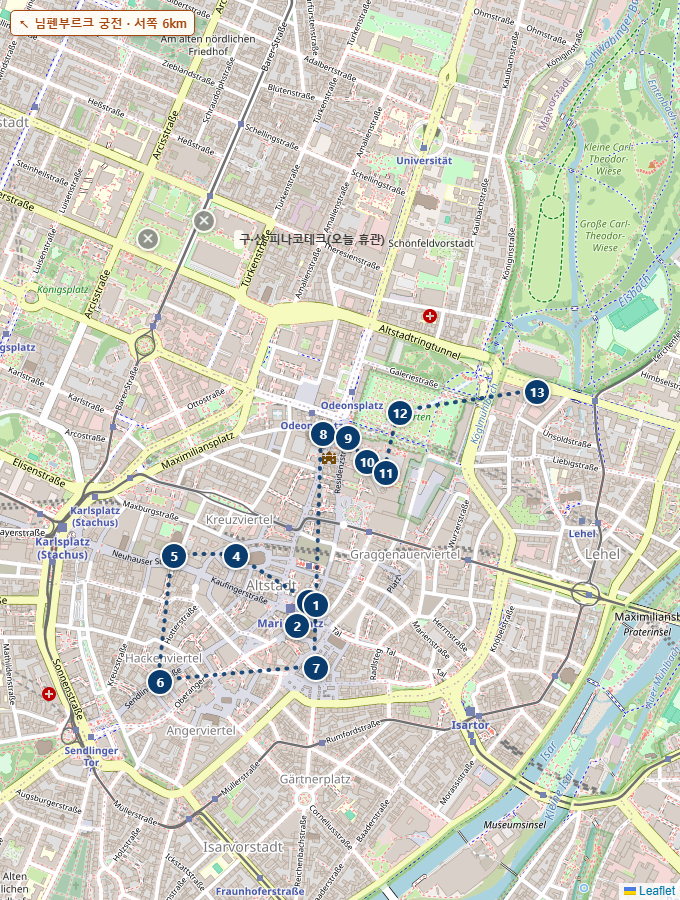
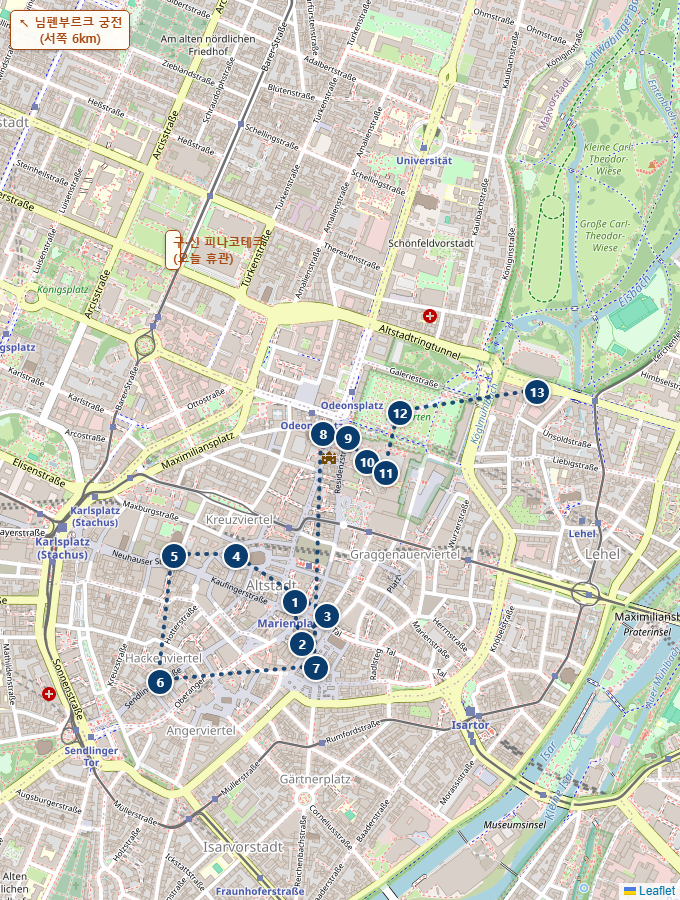
Separate off-route Munich landmarks into their own group, move Spielzeugmuseum next to Altes Rathaus, fix overlapping map pins, unify reference-marker styling on route map

diff --git a/germany-roadtrip-planner.html b/germany-roadtrip-planner.html
@@ -1759,7 +1759,7 @@ document.addEventListener('DOMContentLoaded', function(){
         <ol class="route-steps">
         <li><span class="rs-name">마리엔 광장(신시청)</span></li>
         <li><span class="rs-name">성 페터 교회</span><span class="rs-seg">(110m, 1분)</span></li>
-        <li><span class="rs-name">마리엔 광장(구시청)</span><span class="rs-seg">(180m, 2분)</span></li>
+        <li><span class="rs-name">마리엔 광장(구시청 · 장난감박물관)</span><span class="rs-seg">(180m, 2분)</span></li>
         <li><span class="rs-name">프라우엔교회</span><span class="rs-seg">(450m, 6분)</span></li>
         <li><span class="rs-name">성 미하엘 교회</span><span class="rs-seg">(300m, 4분)</span></li>
         <li><span class="rs-name">아잠 교회</span><span class="rs-seg">(550m, 7분)</span></li>
@@ -1795,6 +1795,14 @@ document.addEventListener('DOMContentLoaded', function(){
         <h3>구시청(Altes Rathaus)</h3>
         <p class="landmark-desc">마리엔광장 동쪽에 있는 고딕 양식 옛 시청사. 지금은 탑 안에 장난감박물관이 들어서 있습니다.</p>
         <div class="landmark-meta">외관 상시 관람 · <span class="landmark-price">무료</span> · <a href="https://www.google.com/maps/search/?api=1&query=Altes+Rathaus+Muenchen" target="_blank" rel="noopener">지도</a></div>
+        </div>
+      </div>
+      <div class="landmark-card">
+        <img src="https://commons.wikimedia.org/wiki/Special:FilePath/Altes%20Rathaus%20Muenchen-2.jpg?width=500" alt="구시청 탑(장난감박물관 소재지)" loading="lazy">
+        <div class="landmark-body">
+        <h3>장난감박물관(Spielzeugmuseum)</h3>
+        <p class="landmark-desc">구시청 탑 안에 1983년부터 자리한 박물관. 목재·양철 장난감, 모형 기차, 인형, 곰인형, 만화 캐릭터 피규어 등 200년 넘는 세월의 장난감을 4개 층에 걸쳐 전시합니다. 바로 앞 구시청(카드 목록 3번째)과 같은 건물이라 별도 동선 없이 들를 수 있습니다.</p>
+        <div class="landmark-meta">수–월 10:00–17:30(화요일 휴관, 바이에른 학교방학 기간엔 화요일도 개방 — 출처마다 요일이 조금씩 달라 현장 확인 권장) · <span class="landmark-price">성인 €8</span> · <a href="https://www.google.com/maps/search/?api=1&query=Spielzeugmuseum+Muenchen" target="_blank" rel="noopener">지도</a></div>
         </div>
       </div>
       <div class="landmark-card">
@@ -1885,6 +1893,7 @@ document.addEventListener('DOMContentLoaded', function(){
         <div class="landmark-parking">🅿 인근 노상 유료주차 위주 · 시간당 약 €2~4(구역별 상이) · 대중교통 권장(U3/U6 Giselastr.)</div>
         </div>
       </div>
+      <p class="city-label">🚗 도보권 밖 — 참고용(오늘 미방문 · 별도 이동 필요)</p>
       <div class="landmark-card semi-wide">
         <img src="https://commons.wikimedia.org/wiki/Special:FilePath/Alte_Pinakothek.JPG?width=500" alt="구 피나코테크" loading="lazy">
         <div class="landmark-body">
@@ -1900,14 +1909,6 @@ document.addEventListener('DOMContentLoaded', function(){
         <h3>(휴관) 신 피나코테크(Neue Pinakothek)</h3>
         <p class="landmark-desc">구 피나코테크 바로 건너편(테레지엔 거리 맞은편, 도보 1분)에 있어 위치상으로는 함께 묶어 보기 좋지만, 2019년부터 리모델링으로 휴관 중이며 2029년 하반기 재개관 예정입니다. 19세기 유럽 회화(낭만주의·인상주의 등, 모네·반고흐·고갱·세잔 등)를 소장했던 곳으로, 휴관 기간 소장품 일부는 구 피나코테크 동쪽 별관과 샤크 컬렉션(Sammlung Schack)에서 볼 수 있습니다.</p>
         <div class="landmark-meta">⚠ 2029년 하반기까지 휴관 · <a href="https://www.google.com/maps/search/?api=1&query=Neue+Pinakothek+Muenchen" target="_blank" rel="noopener">지도(쿤스트아레알 지구)</a></div>
-        </div>
-      </div>
-      <div class="landmark-card">
-        <img src="https://commons.wikimedia.org/wiki/Special:FilePath/Altes%20Rathaus%20Muenchen-2.jpg?width=500" alt="구시청 탑(장난감박물관 소재지)" loading="lazy">
-        <div class="landmark-body">
-        <h3>장난감박물관(Spielzeugmuseum)</h3>
-        <p class="landmark-desc">구시청 탑 안에 1983년부터 자리한 박물관. 목재·양철 장난감, 모형 기차, 인형, 곰인형, 만화 캐릭터 피규어 등 200년 넘는 세월의 장난감을 4개 층에 걸쳐 전시합니다. 마리엔광장의 구시청(카드 목록 3번째)과 같은 건물이라 별도 동선 없이 들를 수 있습니다.</p>
-        <div class="landmark-meta">수–월 10:00–17:30(화요일 휴관, 바이에른 학교방학 기간엔 화요일도 개방 — 출처마다 요일이 조금씩 달라 현장 확인 권장) · <span class="landmark-price">성인 €8</span> · <a href="https://www.google.com/maps/search/?api=1&query=Spielzeugmuseum+Muenchen" target="_blank" rel="noopener">지도</a></div>
         </div>
       </div>
       <div class="landmark-card">

diff --git a/index.html b/index.html
@@ -1759,7 +1759,7 @@ document.addEventListener('DOMContentLoaded', function(){
         <ol class="route-steps">
         <li><span class="rs-name">마리엔 광장(신시청)</span></li>
         <li><span class="rs-name">성 페터 교회</span><span class="rs-seg">(110m, 1분)</span></li>
-        <li><span class="rs-name">마리엔 광장(구시청)</span><span class="rs-seg">(180m, 2분)</span></li>
+        <li><span class="rs-name">마리엔 광장(구시청 · 장난감박물관)</span><span class="rs-seg">(180m, 2분)</span></li>
         <li><span class="rs-name">프라우엔교회</span><span class="rs-seg">(450m, 6분)</span></li>
         <li><span class="rs-name">성 미하엘 교회</span><span class="rs-seg">(300m, 4분)</span></li>
         <li><span class="rs-name">아잠 교회</span><span class="rs-seg">(550m, 7분)</span></li>
@@ -1795,6 +1795,14 @@ document.addEventListener('DOMContentLoaded', function(){
         <h3>구시청(Altes Rathaus)</h3>
         <p class="landmark-desc">마리엔광장 동쪽에 있는 고딕 양식 옛 시청사. 지금은 탑 안에 장난감박물관이 들어서 있습니다.</p>
         <div class="landmark-meta">외관 상시 관람 · <span class="landmark-price">무료</span> · <a href="https://www.google.com/maps/search/?api=1&query=Altes+Rathaus+Muenchen" target="_blank" rel="noopener">지도</a></div>
+        </div>
+      </div>
+      <div class="landmark-card">
+        <img src="https://commons.wikimedia.org/wiki/Special:FilePath/Altes%20Rathaus%20Muenchen-2.jpg?width=500" alt="구시청 탑(장난감박물관 소재지)" loading="lazy">
+        <div class="landmark-body">
+        <h3>장난감박물관(Spielzeugmuseum)</h3>
+        <p class="landmark-desc">구시청 탑 안에 1983년부터 자리한 박물관. 목재·양철 장난감, 모형 기차, 인형, 곰인형, 만화 캐릭터 피규어 등 200년 넘는 세월의 장난감을 4개 층에 걸쳐 전시합니다. 바로 앞 구시청(카드 목록 3번째)과 같은 건물이라 별도 동선 없이 들를 수 있습니다.</p>
+        <div class="landmark-meta">수–월 10:00–17:30(화요일 휴관, 바이에른 학교방학 기간엔 화요일도 개방 — 출처마다 요일이 조금씩 달라 현장 확인 권장) · <span class="landmark-price">성인 €8</span> · <a href="https://www.google.com/maps/search/?api=1&query=Spielzeugmuseum+Muenchen" target="_blank" rel="noopener">지도</a></div>
         </div>
       </div>
       <div class="landmark-card">
@@ -1885,6 +1893,7 @@ document.addEventListener('DOMContentLoaded', function(){
         <div class="landmark-parking">🅿 인근 노상 유료주차 위주 · 시간당 약 €2~4(구역별 상이) · 대중교통 권장(U3/U6 Giselastr.)</div>
         </div>
       </div>
+      <p class="city-label">🚗 도보권 밖 — 참고용(오늘 미방문 · 별도 이동 필요)</p>
       <div class="landmark-card semi-wide">
         <img src="https://commons.wikimedia.org/wiki/Special:FilePath/Alte_Pinakothek.JPG?width=500" alt="구 피나코테크" loading="lazy">
         <div class="landmark-body">
@@ -1900,14 +1909,6 @@ document.addEventListener('DOMContentLoaded', function(){
         <h3>(휴관) 신 피나코테크(Neue Pinakothek)</h3>
         <p class="landmark-desc">구 피나코테크 바로 건너편(테레지엔 거리 맞은편, 도보 1분)에 있어 위치상으로는 함께 묶어 보기 좋지만, 2019년부터 리모델링으로 휴관 중이며 2029년 하반기 재개관 예정입니다. 19세기 유럽 회화(낭만주의·인상주의 등, 모네·반고흐·고갱·세잔 등)를 소장했던 곳으로, 휴관 기간 소장품 일부는 구 피나코테크 동쪽 별관과 샤크 컬렉션(Sammlung Schack)에서 볼 수 있습니다.</p>
         <div class="landmark-meta">⚠ 2029년 하반기까지 휴관 · <a href="https://www.google.com/maps/search/?api=1&query=Neue+Pinakothek+Muenchen" target="_blank" rel="noopener">지도(쿤스트아레알 지구)</a></div>
-        </div>
-      </div>
-      <div class="landmark-card">
-        <img src="https://commons.wikimedia.org/wiki/Special:FilePath/Altes%20Rathaus%20Muenchen-2.jpg?width=500" alt="구시청 탑(장난감박물관 소재지)" loading="lazy">
-        <div class="landmark-body">
-        <h3>장난감박물관(Spielzeugmuseum)</h3>
-        <p class="landmark-desc">구시청 탑 안에 1983년부터 자리한 박물관. 목재·양철 장난감, 모형 기차, 인형, 곰인형, 만화 캐릭터 피규어 등 200년 넘는 세월의 장난감을 4개 층에 걸쳐 전시합니다. 마리엔광장의 구시청(카드 목록 3번째)과 같은 건물이라 별도 동선 없이 들를 수 있습니다.</p>
-        <div class="landmark-meta">수–월 10:00–17:30(화요일 휴관, 바이에른 학교방학 기간엔 화요일도 개방 — 출처마다 요일이 조금씩 달라 현장 확인 권장) · <span class="landmark-price">성인 €8</span> · <a href="https://www.google.com/maps/search/?api=1&query=Spielzeugmuseum+Muenchen" target="_blank" rel="noopener">지도</a></div>
         </div>
       </div>
       <div class="landmark-card">
